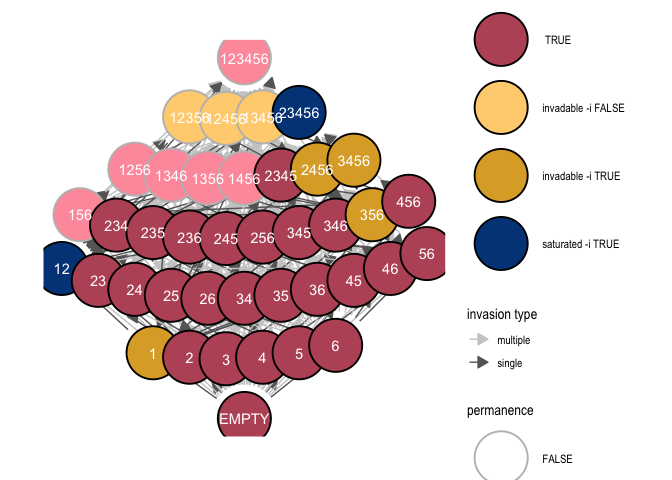
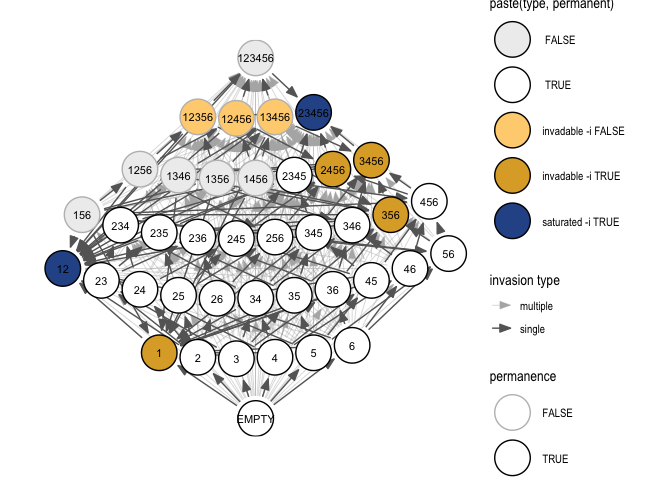
polish plot defaults/options

diff --git a/README.md b/README.md
@@ -59,7 +59,7 @@ gra <- inv_graph(IS = sch)
 tidy_gra <- tidy_inv_graph(gra)
 
 # plot
-ggIG(tidy_gra)
+ggIG(tidy_gra, node_size = 12)
 ```
 
 <img src="man/figures/README-example-1.png" width="100%" />
